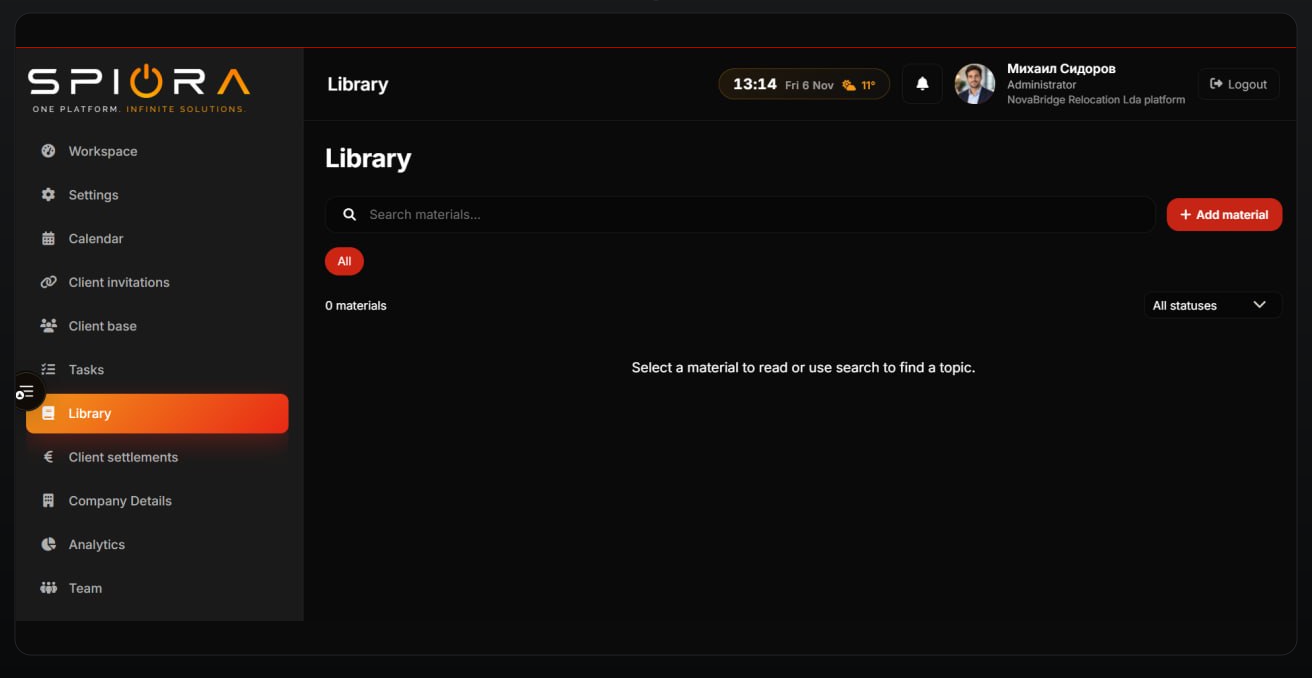
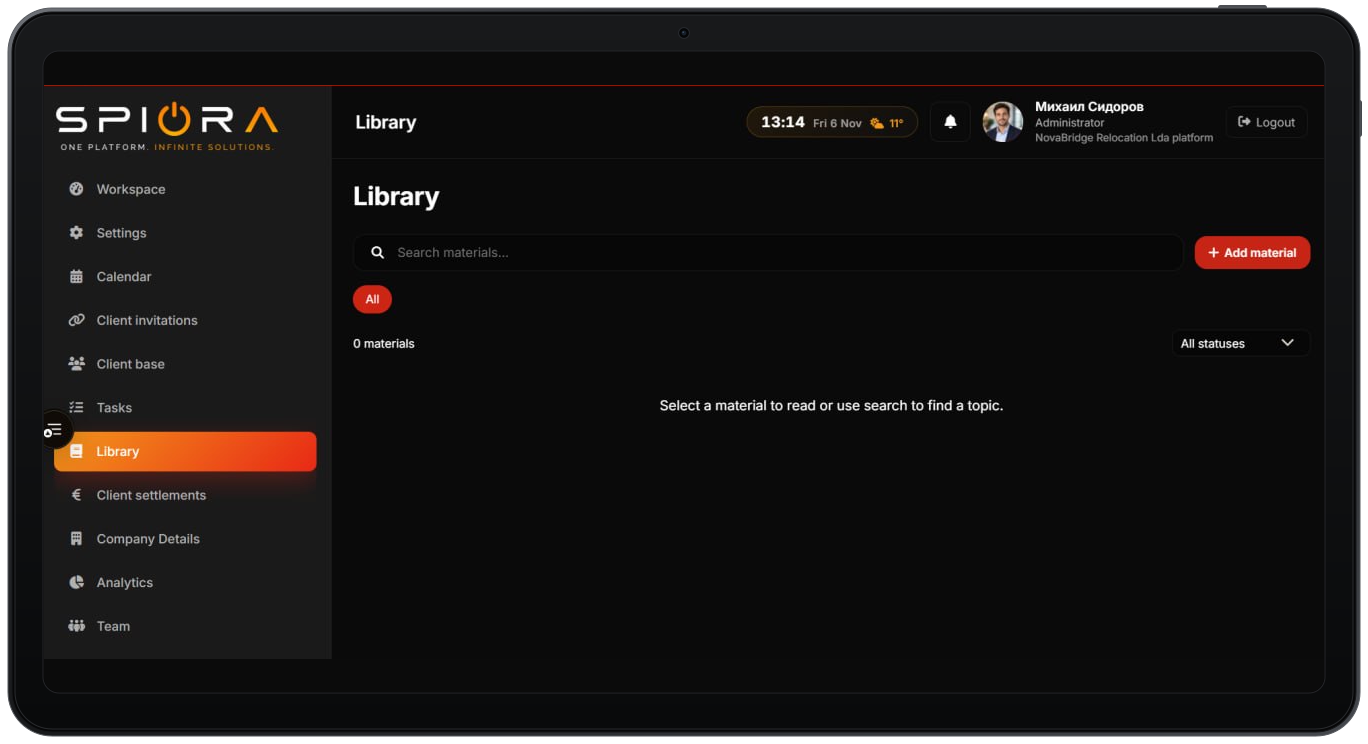
Restore the tablet frame on the nine module screenshots.

diff --git a/src/content/shots.ts b/src/content/shots.ts
@@ -15,15 +15,15 @@ export type ShotKey =
 export type ShotImage = { src: string; width: number; height: number };
 
 export const shots: Record<ShotKey, ShotImage> = {
-  workspace: { src: "/shots/team-workspace.png", width: 980, height: 502 },
-  portal: { src: "/shots/client-portal.png", width: 1312, height: 678 },
-  tasks: { src: "/shots/team-tasks.png", width: 1312, height: 678 },
-  finance: { src: "/shots/finance.png", width: 1312, height: 678 },
-  team: { src: "/shots/team-members.png", width: 1312, height: 678 },
-  calendar: { src: "/shots/calendar.png", width: 1312, height: 678 },
-  analytics: { src: "/shots/analytics.png", width: 1312, height: 678 },
-  library: { src: "/shots/library.png", width: 1312, height: 678 },
-  ai: { src: "/shots/ai-workspace.png", width: 1312, height: 678 },
+  workspace: { src: "/shots/team-workspace.png", width: 1024, height: 556 },
+  portal: { src: "/shots/client-portal.png", width: 1368, height: 744 },
+  tasks: { src: "/shots/team-tasks.png", width: 1368, height: 744 },
+  finance: { src: "/shots/finance.png", width: 1368, height: 744 },
+  team: { src: "/shots/team-members.png", width: 1368, height: 744 },
+  calendar: { src: "/shots/calendar.png", width: 1368, height: 744 },
+  analytics: { src: "/shots/analytics.png", width: 1368, height: 744 },
+  library: { src: "/shots/library.png", width: 1368, height: 744 },
+  ai: { src: "/shots/ai-workspace.png", width: 1368, height: 744 },
 };
 
 /** A section of a screenshot, in percent of its width and height. */
